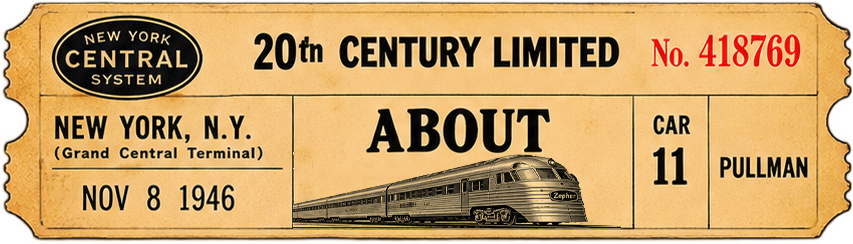
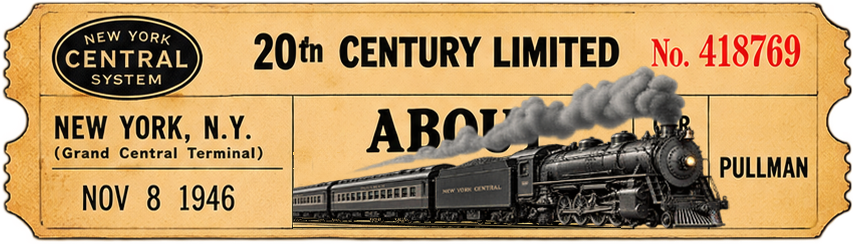
Adjust Whistler anniversary layout, refine featured header styling, and add anniversary numeral support.

Changed region(s): [[0.3353, 0.2582, 0.8535, 0.9467]]

diff --git a/public/skins/whistler.css b/public/skins/whistler.css
@@ -21,7 +21,11 @@
  .show-nav__card:is(:hover,:focus-visible){filter:brightness(1.17) drop-shadow(0 0 8px #ffcf72)}
  .sr-only{position:absolute;width:1px;height:1px;overflow:hidden;clip:rect(0,0,0,0);white-space:nowrap}
  .featured-episode{z-index:6;margin:0;padding:0;border:0;border-radius:0;background:#08090b;color:#edca8a;box-shadow:inset 0 0 0 3px #a67c36,inset 0 0 0 6px #221609}
+ .featured-header{position:absolute;left:480px;right:27px;top:15px;height:67px;display:flex;justify-content:center;align-items:center;gap:12px}
+ .anniversary{font:bold 38px/1 Georgia,serif;color:#edc78a}
+ .featured-header>div{display:flex;flex-direction:column;align-items:center;gap:4px}
  .featured-header h2{margin:0;font:bold 28px/1.1 Georgia,serif;white-space:nowrap;letter-spacing:2px;color:#edc78a}
+ .featured-header time{font:19px Georgia,serif;color:#e7bd80}
  .featured-body{position:absolute;left:470px;right:25px;top:90px;height:83px;display:block}
  .featured-art{position:absolute;left:14px;top:14px;width:430px;height:212px;margin:0;background:url('/art/mystery/whistler/hero.png') center/cover no-repeat;border:2px solid #8b653a}
  .featured-content{text-align:center}
@@ -58,6 +62,27 @@
  background-image:url('/art/mystery/whistler/hero.png');
  background-position:center;background-size:contain;background-repeat:no-repeat;
 }
+ .page-landing .featured-header{
+ grid-column:2;grid-row:1;position:static;
+ left:auto;right:auto;top:auto;width:100%;height:90px;min-width:0;
+ transform:translateY(-9px);
+ display:flex;flex-direction:column;justify-content:center;align-items:flex-start;
+ gap:0;margin:0;padding:0;
+}
+ .page-landing .featured-header .anniversary{
+ display:block;flex:none;font-family:'Times New Roman',Georgia,serif;
+ font-size:28px;font-weight:700;color:red;line-height:1;transform:translate(26px,-3px);
+ width:calc(2ch - 6px);
+}
+ .page-landing .featured-header>div{
+ position:static;left:auto;right:auto;width:100%;padding:0 20px 0 0;
+ transform:translateY(-6px);display:flex;justify-content:center;align-items:center;
+}
+ .page-landing .featured-header time{
+ display:block;padding-right:0;transform:translateX(-20px);width:382px;
+ margin:0;font-size:22px;font-style:italic;
+ text-align:center;background:transparent;
+}
  .page-landing .featured-body{
  grid-column:2;grid-row:2;position:relative;z-index:5;
  transform:translateY(-30px);inset:auto;width:100%;height:80px;
@@ -85,6 +110,7 @@
  .page-landing .featured-episode{background:transparent}
 
 /* Anniversary numeral: translucent red background, Whistler only. */
+ .page-landing .featured-header .anniversary{background:transparent}
 
 /* Keep featured artwork hidden; debugging outlines removed. */
  .page-landing .featured-art{display:none!important}
